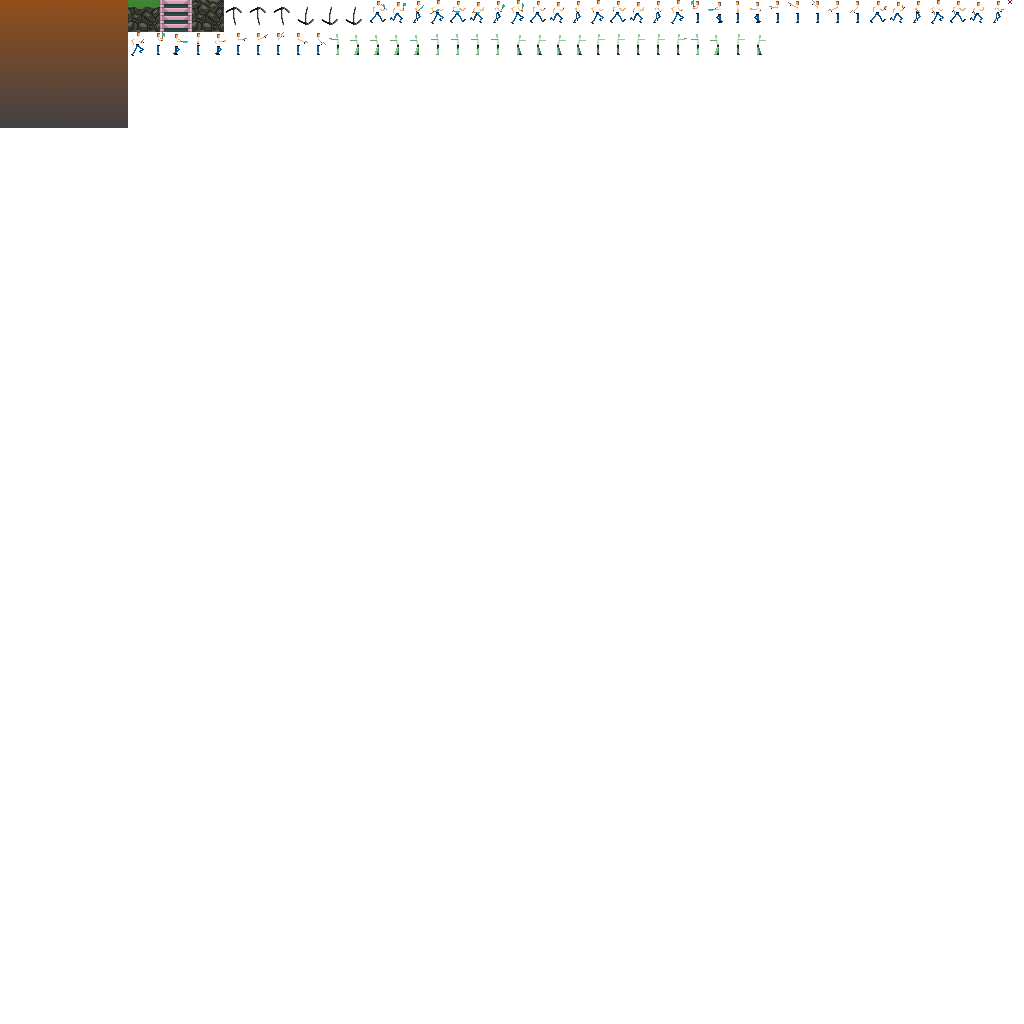
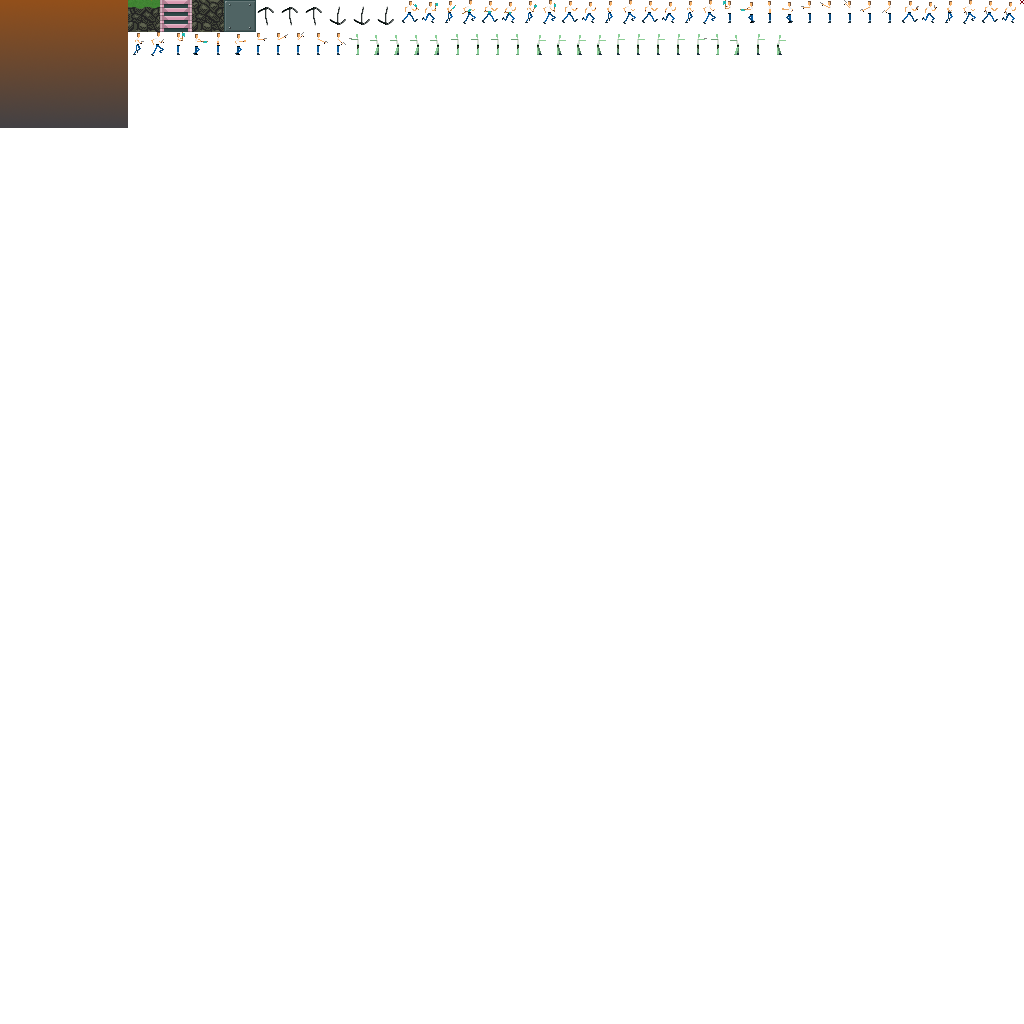
Level changes and follow speed

Changed region(s): [[0.2188, 0.0, 1.0, 0.0312], [0.125, 0.0312, 0.2188, 0.0625]]

diff --git a/game_view.py b/game_view.py
@@ -13,7 +13,7 @@ import random
 
 class Viewpos(object):
     follow_threshold = 0
-    max_away = Point(100,60)
+    max_away = Point(100,20)
     def __init__(self,point):
         self.pos = point
         self.NoTarget()
@@ -120,6 +120,7 @@ class TileTypes:
     ROCK                = 5
     LADDER              = 6
     LADDER_TOP          = 7
+    TILE                = 8
     Impassable          = set((GRASS,ROCK))
     Ladders             = set((LADDER_TOP,LADDER))
     LadderTops          = set((LADDER_TOP,))
@@ -130,6 +131,7 @@ class TileData(object):
                      TileTypes.ZOMBIE        : 'grass.png',
                      TileTypes.ROCK          : 'rock.png',
                      TileTypes.LADDER        : 'ladder.png',
+                     TileTypes.TILE          : 'tile.png',
                      TileTypes.LADDER_TOP    : 'ladder.png'}
 
     def __init__(self,type,pos):
@@ -199,6 +201,7 @@ class GameMap(object):
     input_mapping = {' ' : TileTypes.AIR,
                      '-' : TileTypes.GRASS,
                      '.' : TileTypes.ROCK,
+                     't' : TileTypes.TILE,
                      'l' : TileTypes.LADDER,
                      'L' : TileTypes.LADDER_TOP,
                      'p' : TileTypes.PLAYER,

diff --git a/actors.py b/actors.py
@@ -213,7 +213,6 @@ class Actor(object):
             tr = bl + self.splat_size
             bl = bl.to_int()
             tr = tr.to_int()
-            print 'yoyo',bl,tr
             self.splat_quad.SetVertices(bl,tr,5)
 
     def Facing(self):
